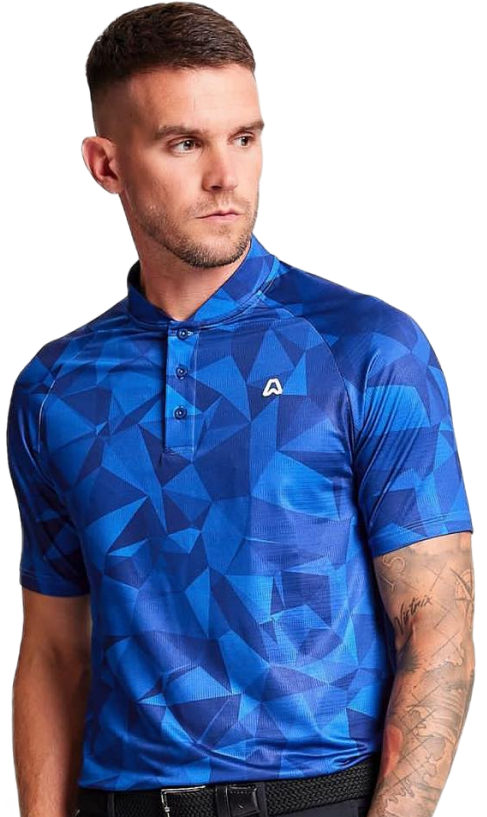
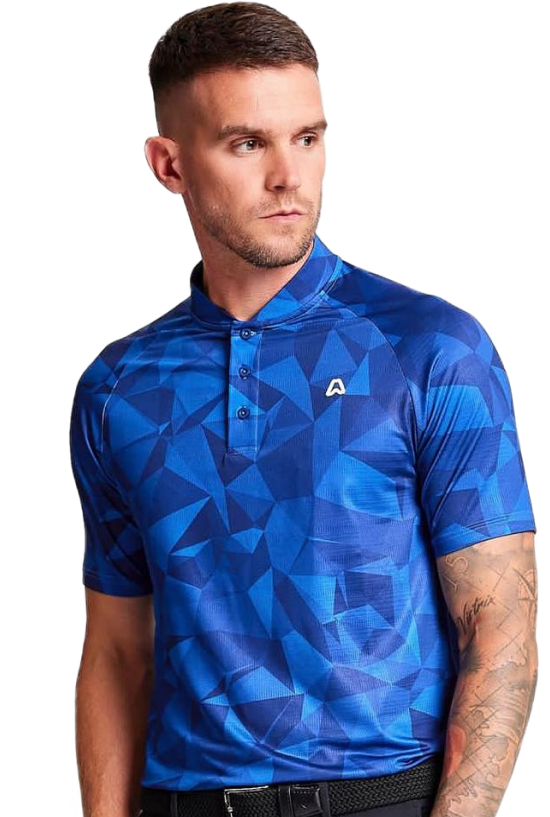
ATSG image overflow hidden

diff --git a/styles/projects.css b/styles/projects.css
@@ -13,14 +13,13 @@
 }
 
 .project-hero-image {
-  display: flex;
+  display: grid;
   justify-content: center;
   margin: 0 auto;
   margin-top: -40px;
-  aspect-ratio: 9 / 16 auto;
   max-height: 900px;
-  max-width: 80%;
-  object-fit: contain;
+  max-width: 100vw;
+  overflow: hidden;
 }
 
 /* .project-hero-image {
